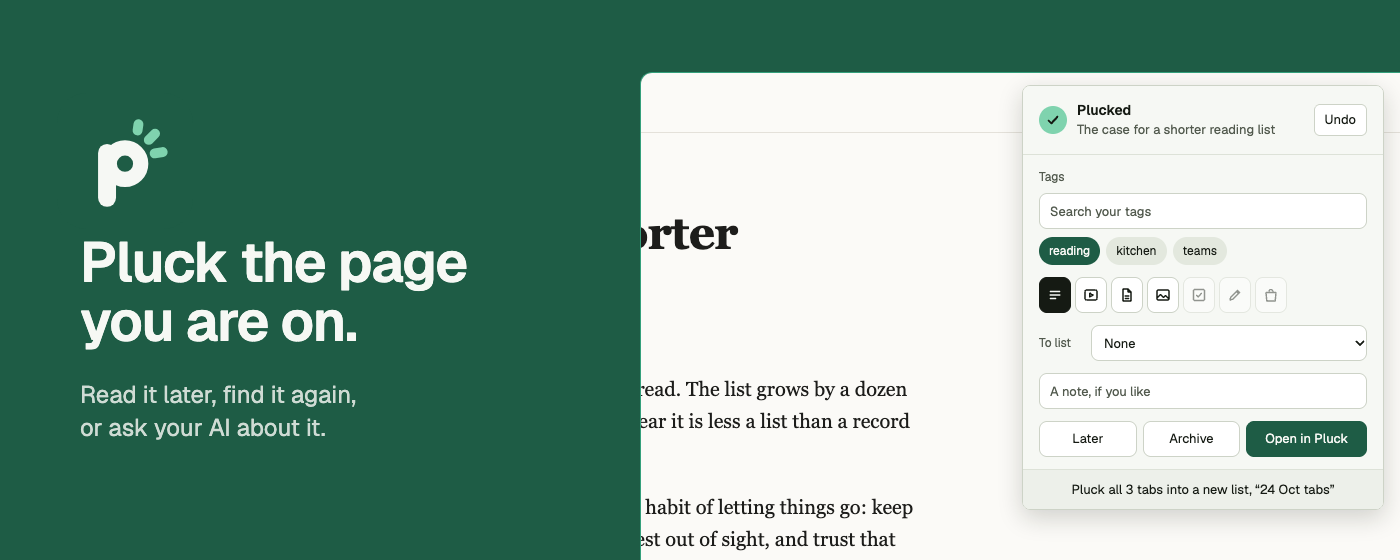
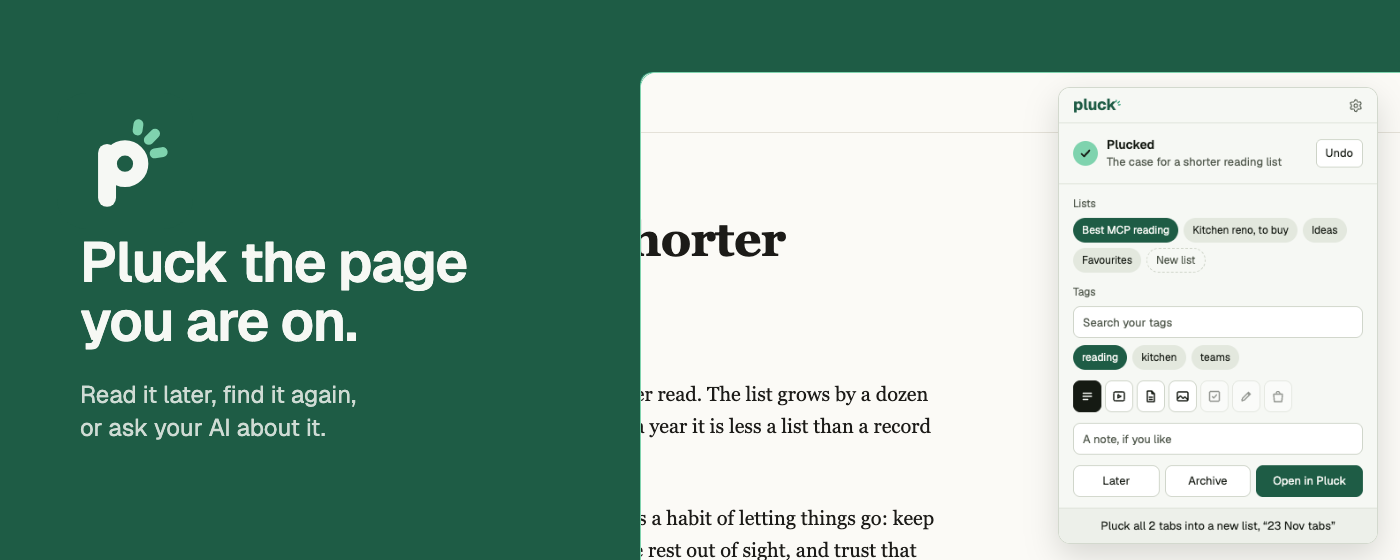
Chrome Web Store marquee tile: the popup as it is now
The tile's right half still showed the popup from before Lists, with the
To list dropdown and its arrow against the edge. scripts/store-chrome.mjs
now makes that half again from the same page and popup as screenshot 1,
over the designer's left half.

Claude-Session: https://claude.ai/code/session_01Chg7BD2Sf1yNRFCX24or7B

diff --git a/apps/extension/store/listing.md b/apps/extension/store/listing.md
@@ -1,6 +1,6 @@
 # Chrome Web Store listing
 
-What to paste into each field of the developer dashboard. The zip is `pnpm --filter @pluck/extension zip` (`.output/pluckextension-<version>-chrome.zip`); build it without `PLUCK_LOCAL`. Images are in this folder; the three screenshots are taken from the real extension and web app by `node scripts/store-chrome.mjs` (its header says what it needs), so make them again when either changes.
+What to paste into each field of the developer dashboard. The zip is `pnpm --filter @pluck/extension zip` (`.output/pluckextension-<version>-chrome.zip`); build it without `PLUCK_LOCAL`. Images are in this folder; the three screenshots and the marquee tile's right half are taken from the real extension and web app by `node scripts/store-chrome.mjs` (its header says what it needs), so make them again when either changes.
 
 ## Store listing
 
